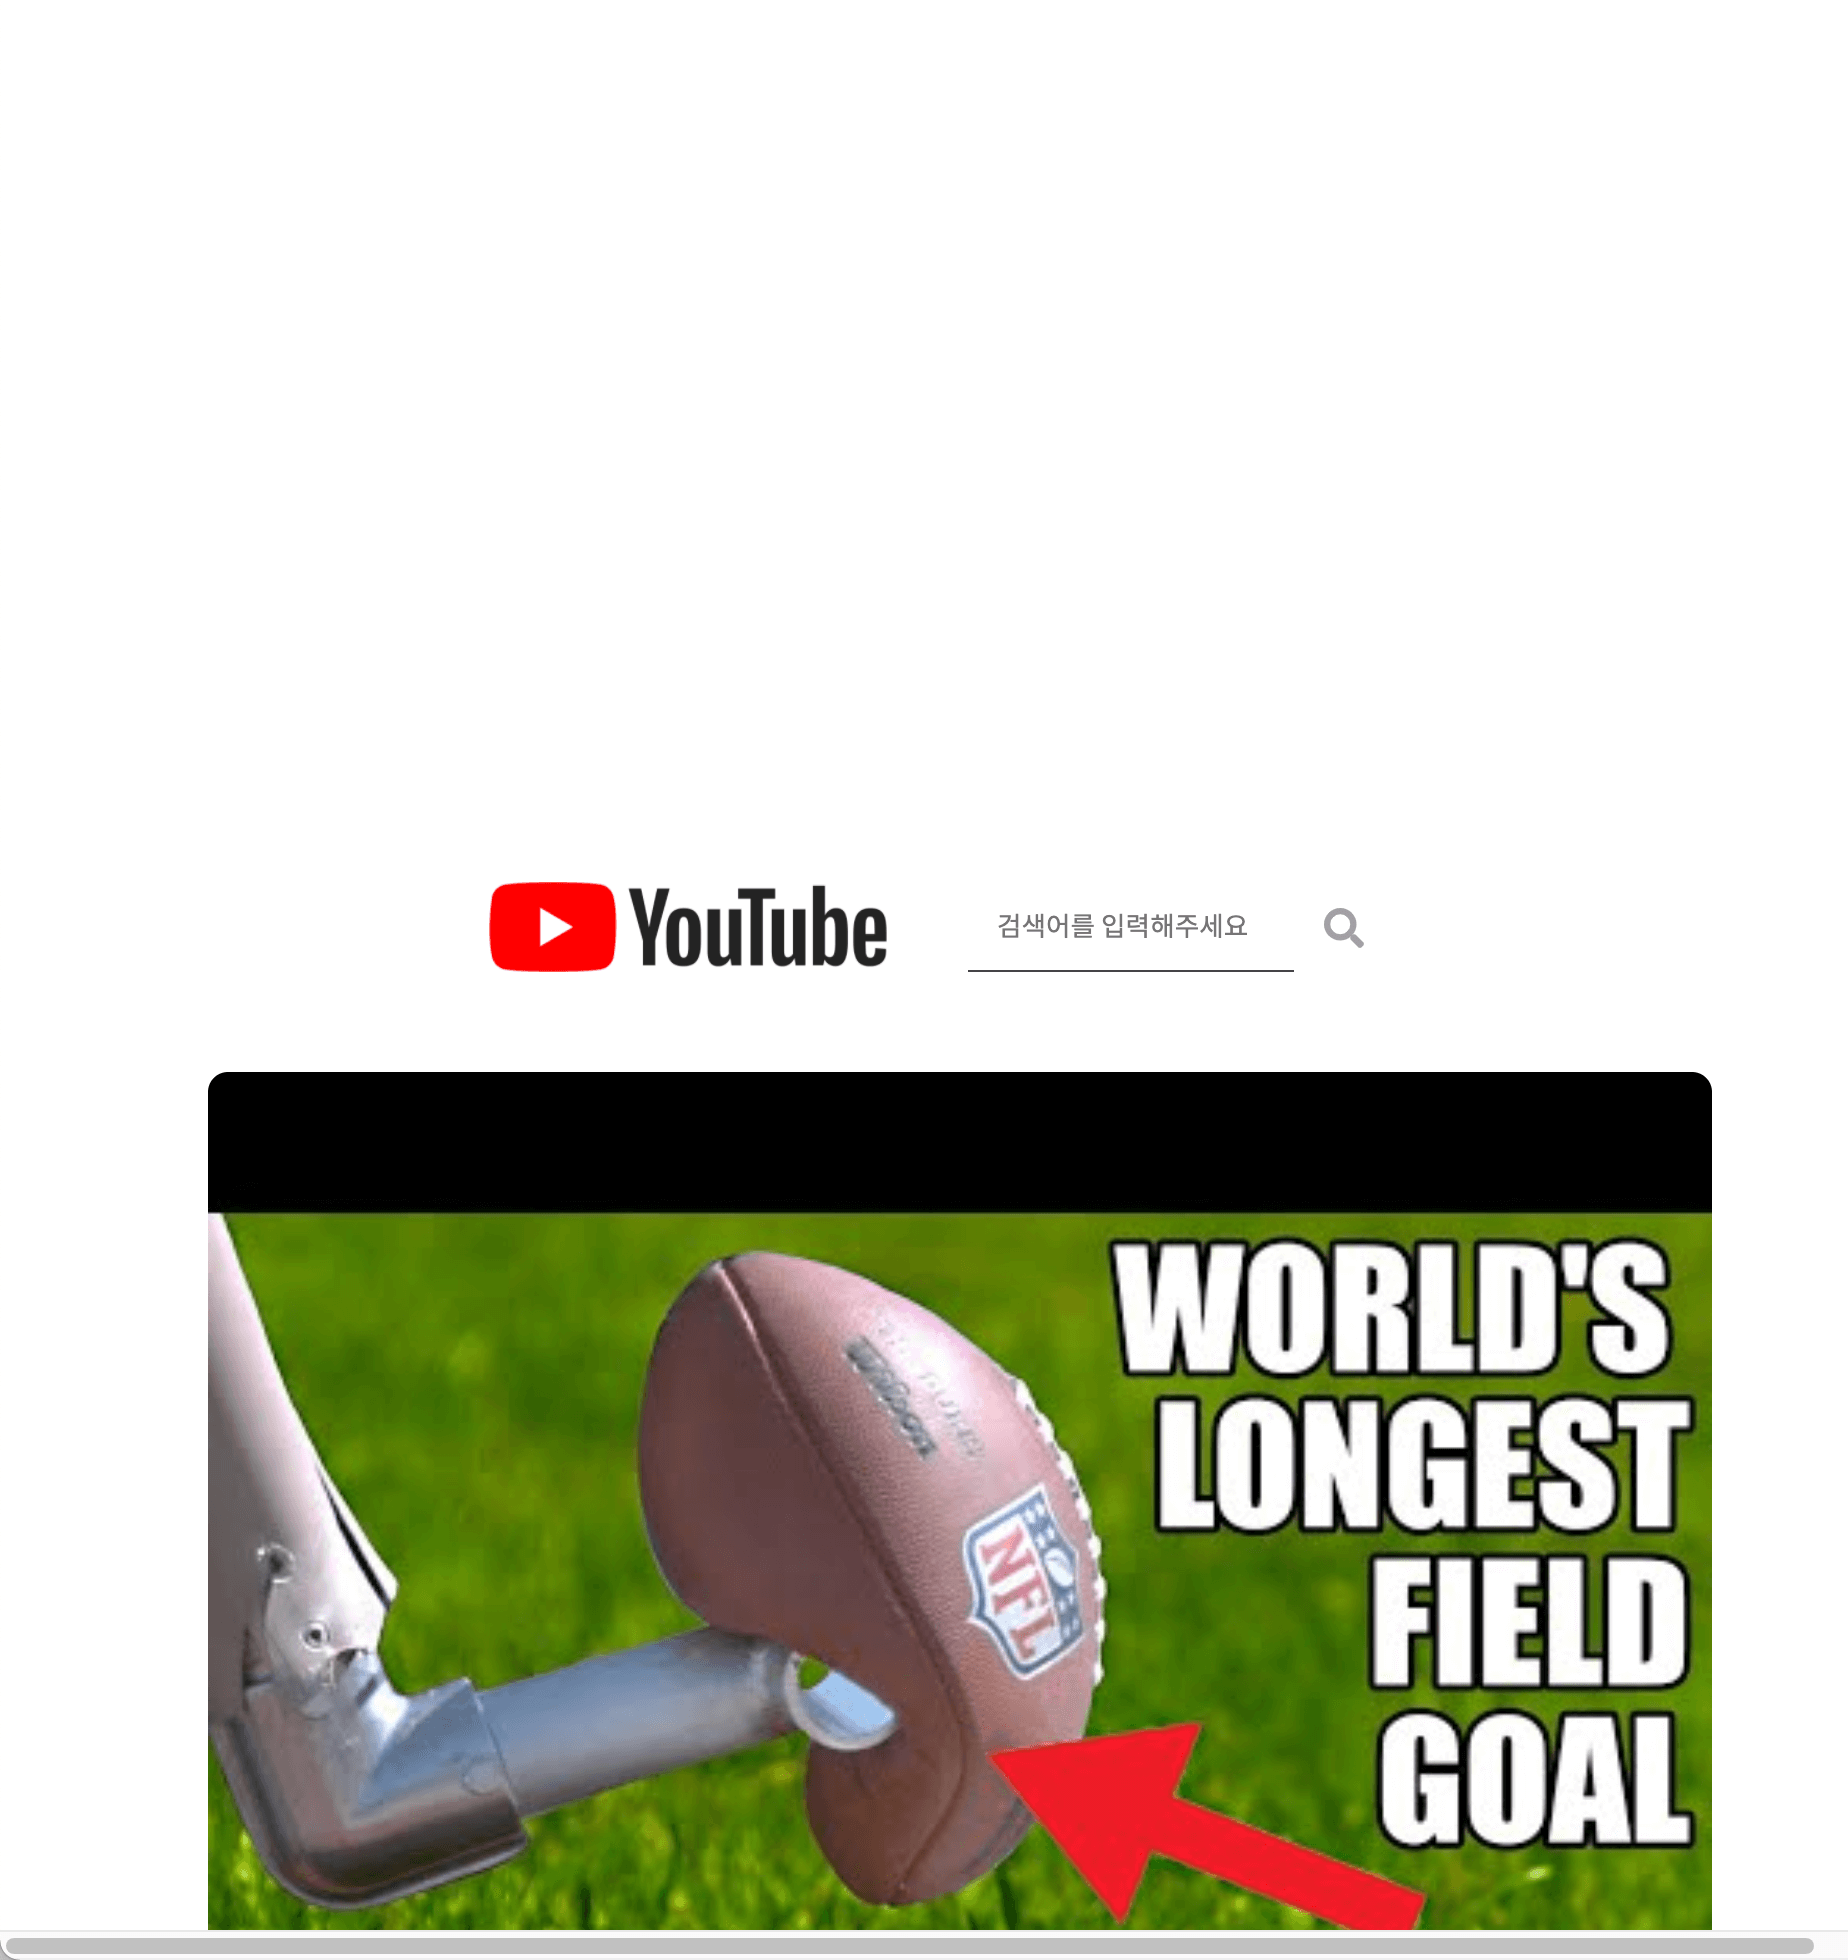
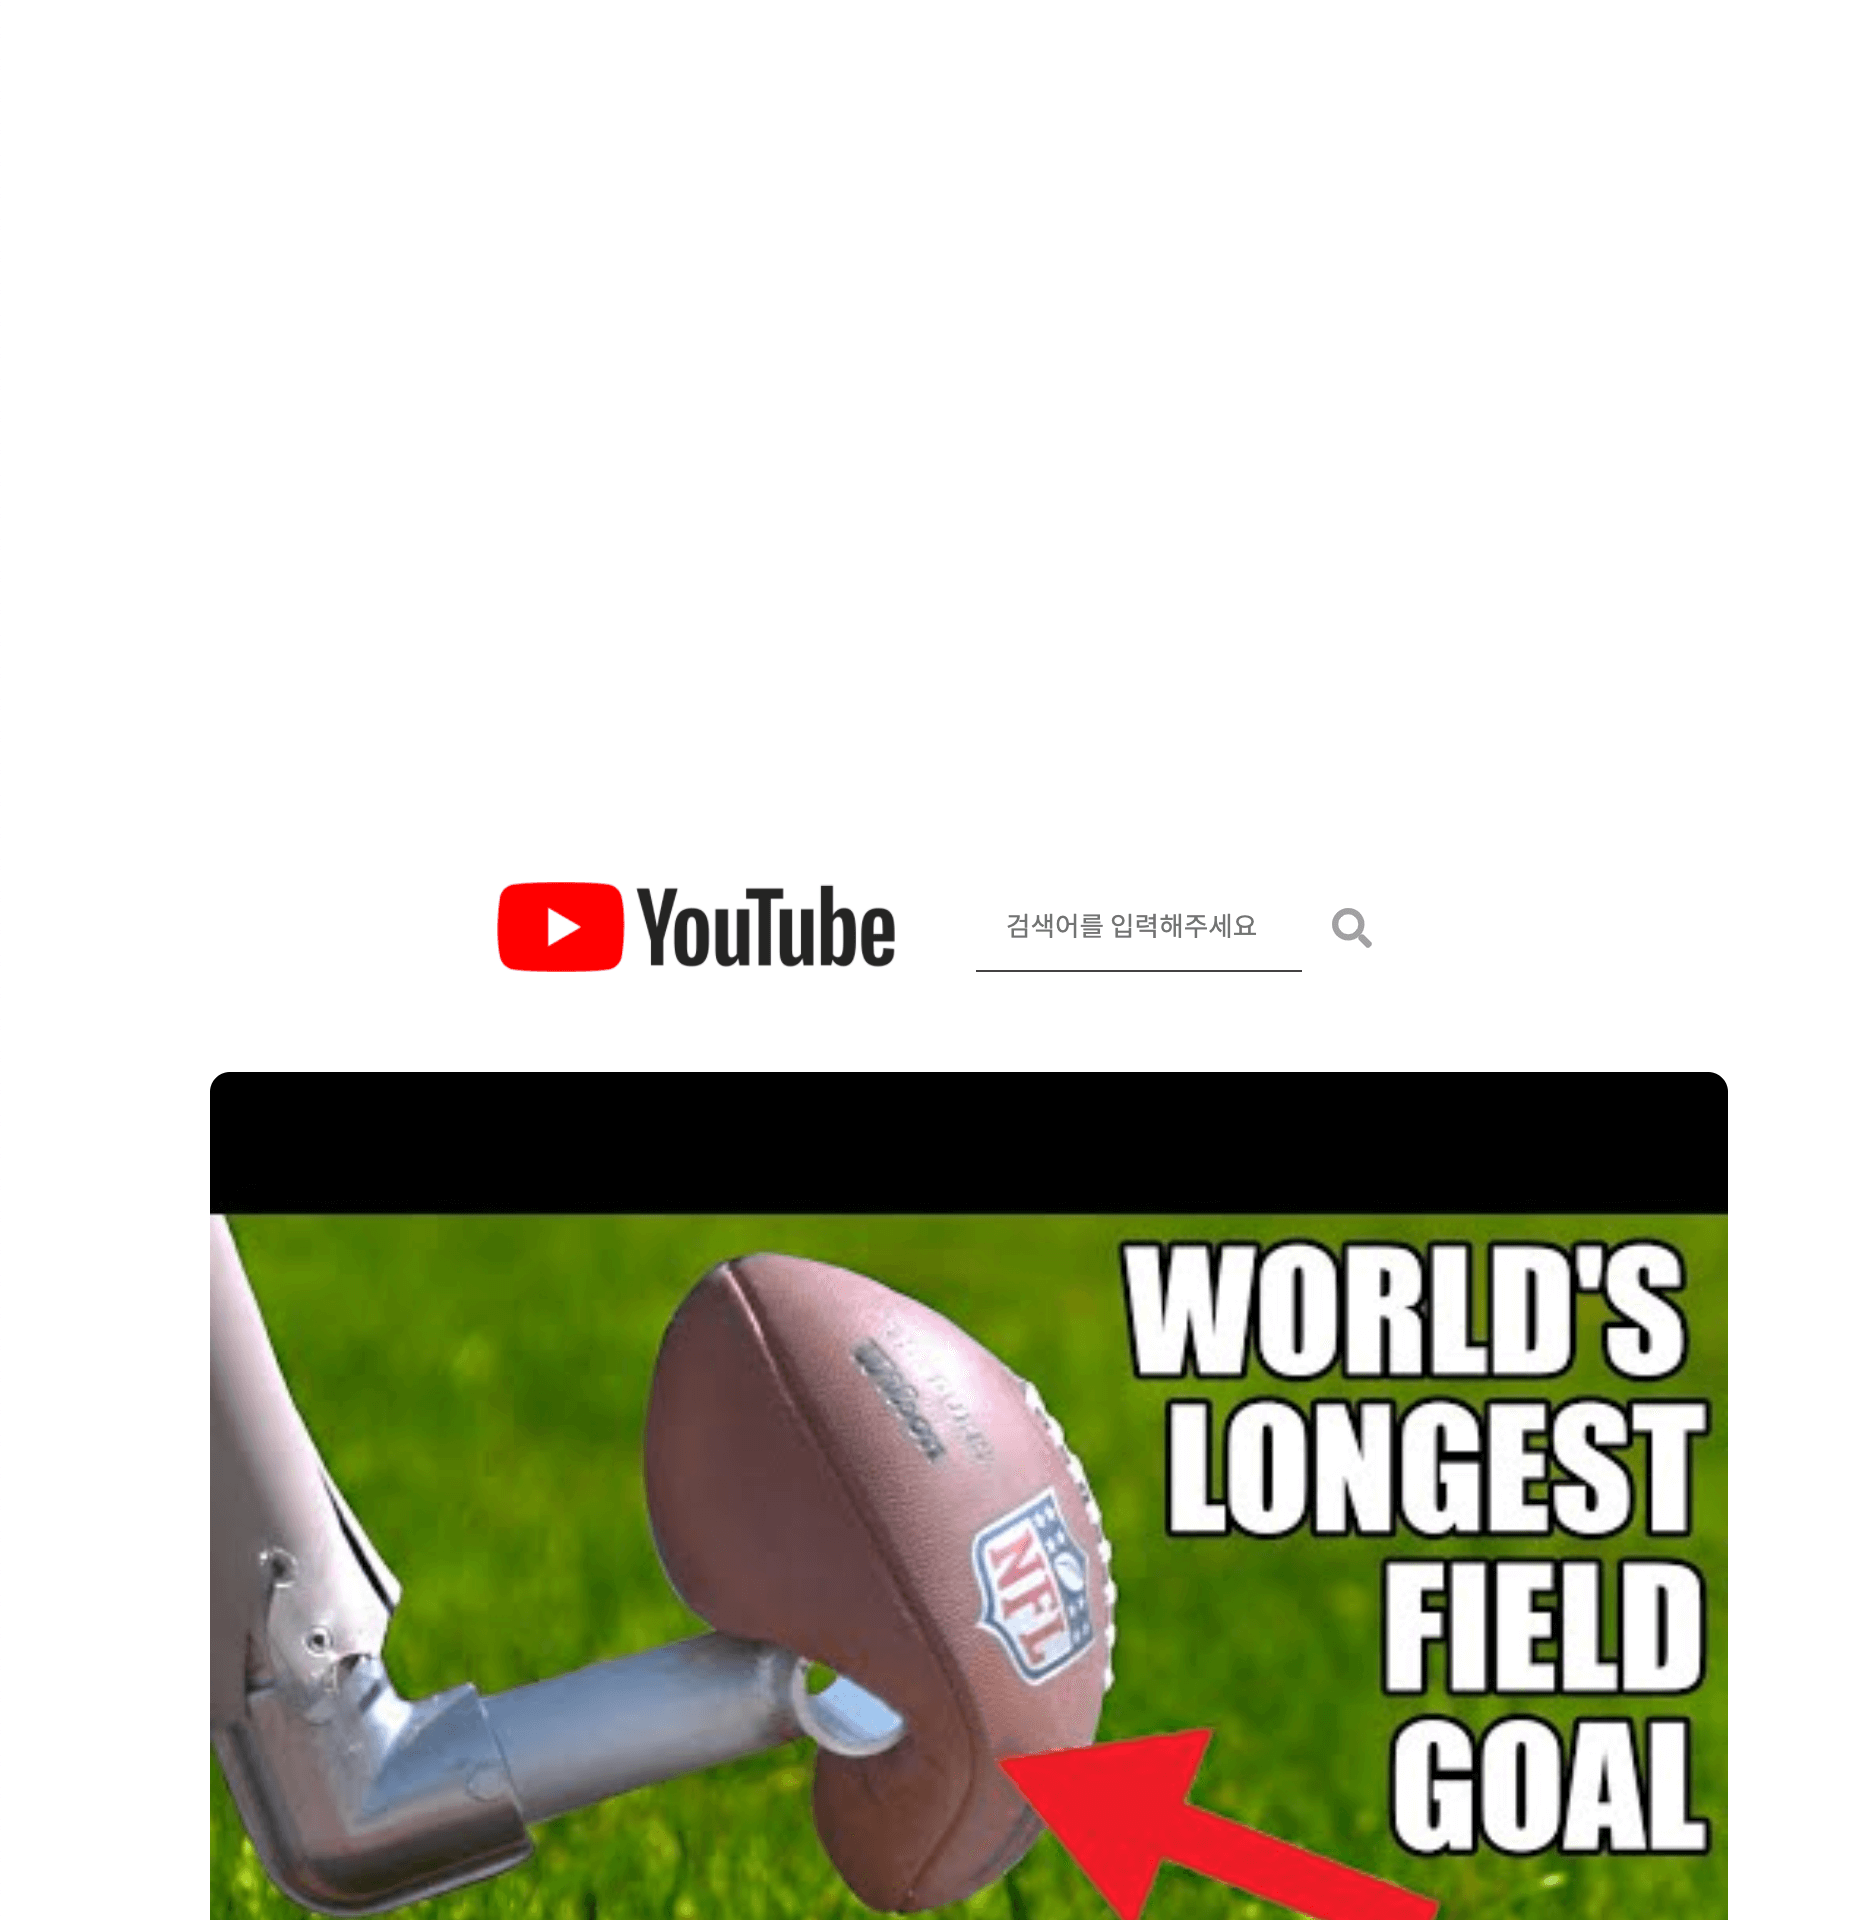
readme 이미지 수정
readme 이미지 수정

diff --git a/README.md b/README.md
@@ -134,7 +134,7 @@ React Router를 사용하여 페이지 간 이동을 하였습니다.
 비디오 재생 화면 반응형
 
 <img src="./readmeImg/videoMedia.png" width="50%">
-<img src="./readmeImg/videoMedia.png_2" width="50%">
+<img src="./readmeImg/videoMedia_2.png" width="50%">
 
 <hr />
 
